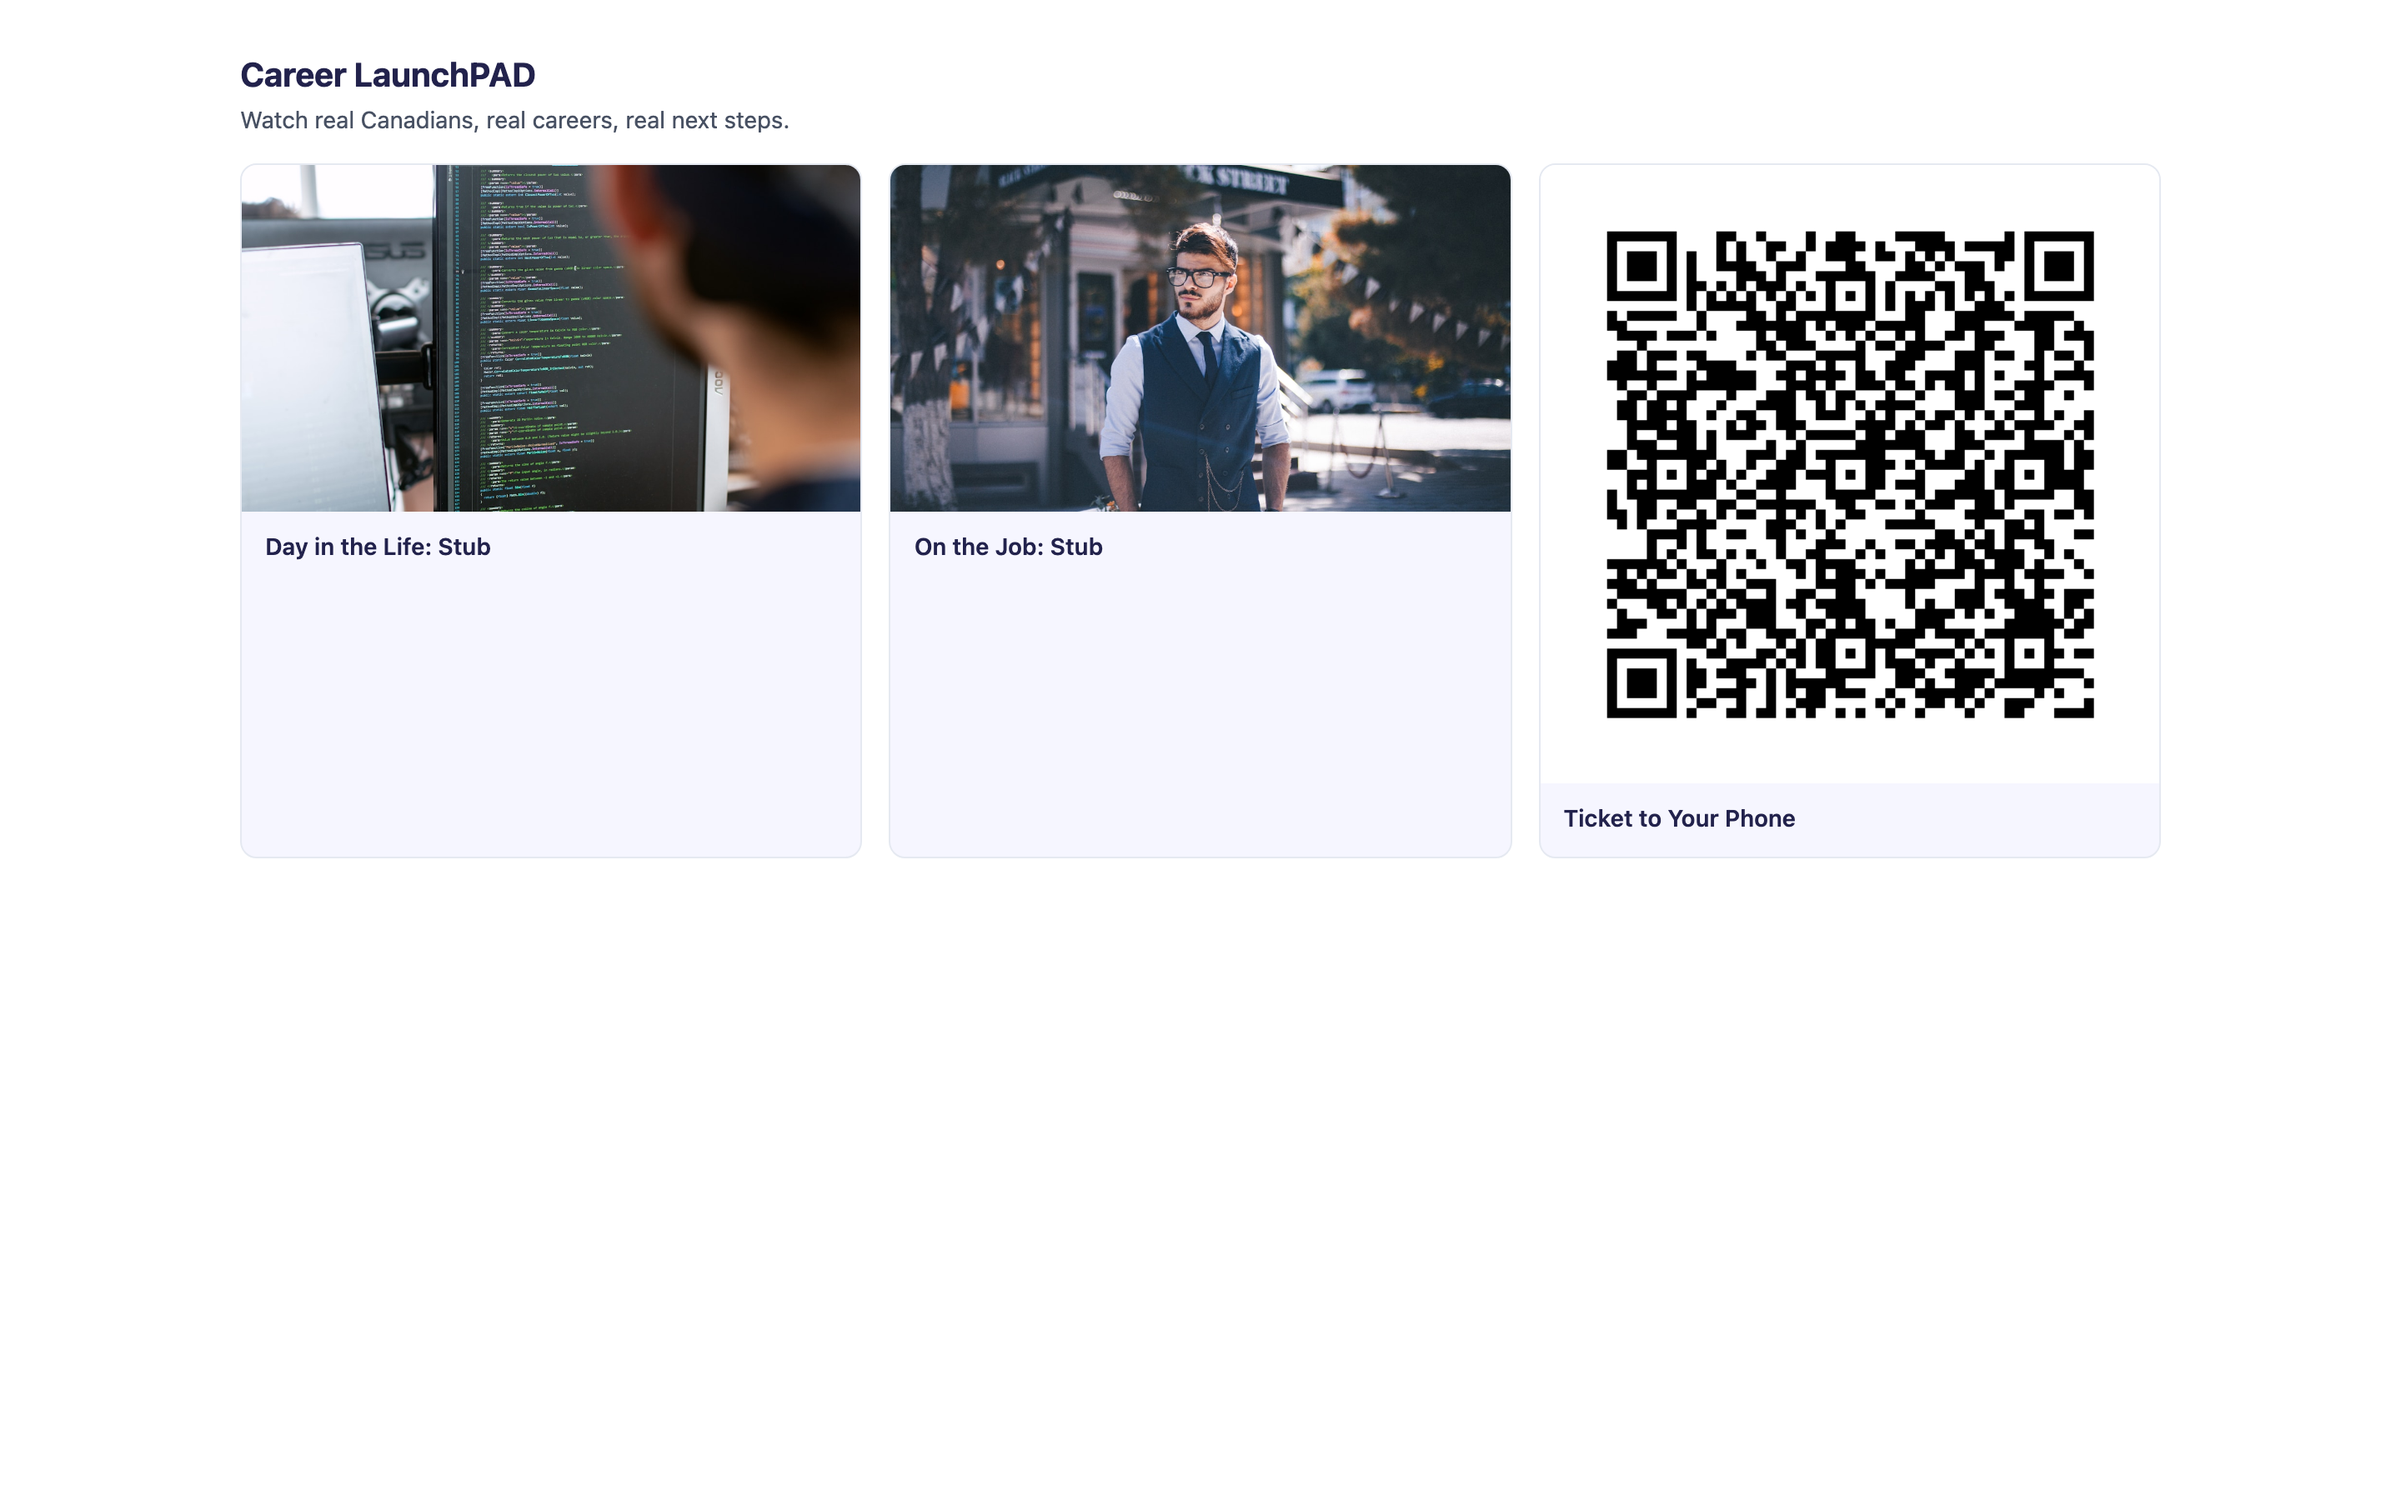
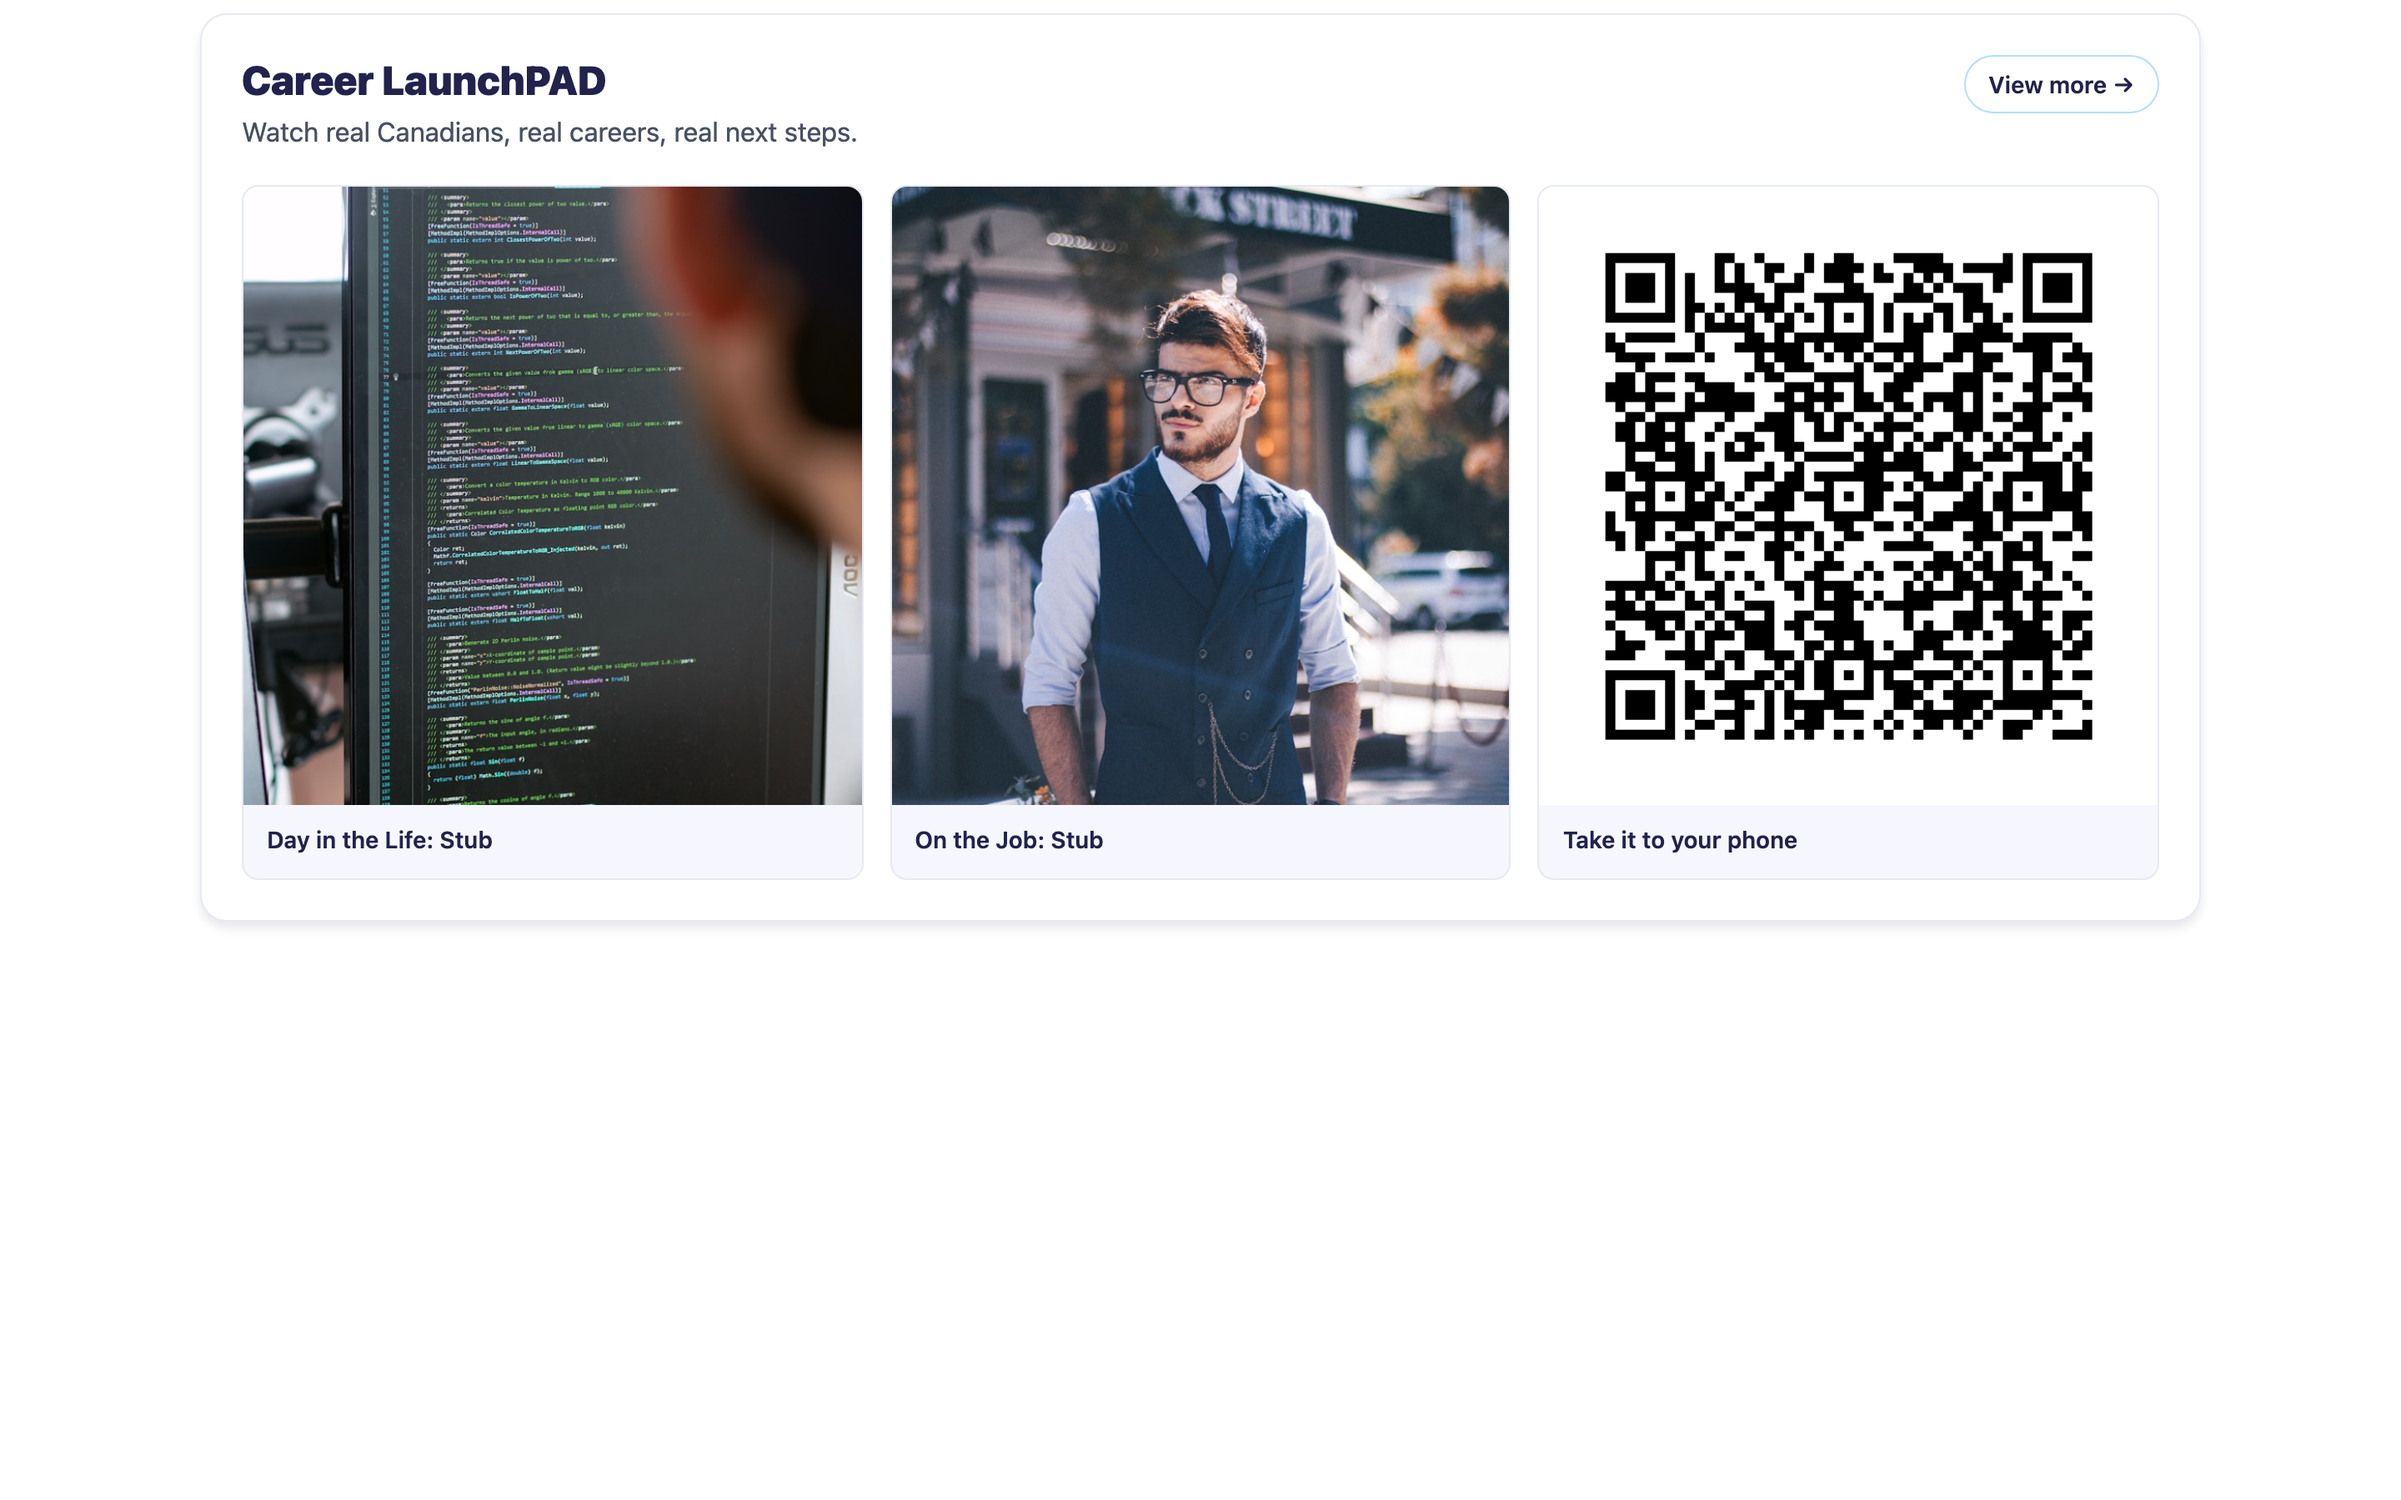
feat: refine widget visuals — container shadow, header type scale, square cards, View more CTA, QR label

Changed region(s): [[0.0938, 0.0311, 0.875, 0.5911], [0.8125, 0.0311, 0.875, 0.0622]]

diff --git a/docs/handoffs/myblueprint-widget/career-launchpad-widget.html b/docs/handoffs/myblueprint-widget/career-launchpad-widget.html
@@ -76,7 +76,9 @@
     .cl-widget {
       position: relative;                /* anchors absolutely-positioned mobile arrows */
       background: #ffffff;
-      border-radius: 12px;
+      border: 1px solid #e5e9f1;
+      border-radius: 16px;
+      box-shadow: 0 4px 6px rgba(34, 34, 76, 0.10);
       padding: 24px;
       font-family: 'Open Sans', system-ui, -apple-system, BlinkMacSystemFont, 'Segoe UI', Roboto, sans-serif;
       color: #22224c;                    /* anchor-navy */
@@ -85,18 +87,53 @@
     }
 
     /* === Header === */
+    .cl-widget__header {
+      display: flex;
+      align-items: flex-start;
+      justify-content: space-between;
+      gap: 16px;
+      margin-bottom: 20px;
+    }
+    .cl-widget__header-text {
+      flex: 1;
+      min-width: 0;
+    }
     .cl-widget__header h2 {
       margin: 0 0 4px 0;
-      font-size: 20px;
-      font-weight: 700;
+      font-size: 24px;
+      font-weight: 900;
+      letter-spacing: -0.005em;
       line-height: 1.3;
       color: #22224c;                    /* anchor-navy */
     }
     .cl-widget__header p {
-      margin: 0 0 16px 0;
-      font-size: 14px;
+      margin: 0;
+      font-size: 16px;
       color: #485163;                    /* slate-ink */
-      line-height: 1.4;
+      line-height: 1.45;
+    }
+
+    .cl-widget__more {
+      display: inline-flex;
+      align-items: center;
+      gap: 6px;
+      padding: 8px 14px;
+      font-size: 14px;
+      font-weight: 600;
+      color: #0092ff;
+      border: 1px solid rgba(0, 146, 255, 0.3);
+      border-radius: 999px;
+      white-space: nowrap;
+      transition: background-color 120ms ease, color 120ms ease, border-color 120ms ease;
+    }
+    .cl-widget__more:hover {
+      background: #0092ff;
+      color: #ffffff;
+      border-color: #0092ff;
+    }
+    .cl-widget__more:focus-visible {
+      outline: 2px solid #0092ff;
+      outline-offset: 2px;
     }
 
     /* === Track (desktop: 3-col grid) === */
@@ -121,7 +158,7 @@
     }
     .cl-card img {
       width: 100%;
-      aspect-ratio: 16 / 9;
+      aspect-ratio: 1 / 1;
       object-fit: cover;
       display: block;
       background: #e5e9f1;               /* slate-frame-light placeholder while loading */
@@ -165,7 +202,7 @@
     @media (max-width: 767.98px) {
       .cl-widget {
         padding: 20px 16px;
-        border-radius: 10px;
+        border-radius: 14px;
       }
 
       .cl-widget__track {
@@ -243,6 +280,17 @@
       }
     }
 
+    /* === Narrow mobile (<480px) — stack the header View-more button below the text === */
+    @media (max-width: 479.98px) {
+      .cl-widget__header {
+        flex-direction: column;
+        align-items: stretch;
+      }
+      .cl-widget__more {
+        align-self: flex-start;
+      }
+    }
+
     /* === States === */
     @media (hover: hover) {
       .cl-card:hover {
@@ -293,8 +341,14 @@
 <body>
   <section class="cl-widget" aria-labelledby="cl-widget-heading">
     <div class="cl-widget__header">
-      <h2 id="cl-widget-heading">Career LaunchPAD</h2>
-      <p>Watch real Canadians, real careers, real next steps.</p>
+      <div class="cl-widget__header-text">
+        <h2 id="cl-widget-heading">Career LaunchPAD</h2>
+        <p>Watch real Canadians, real careers, real next steps.</p>
+      </div>
+      <a class="cl-widget__more" href="https://career-launchpad-woad.vercel.app/?utm_source=myblueprint&amp;utm_medium=widget&amp;utm_campaign=career-launchpad-v1&amp;utm_content=view-more" target="_blank" rel="noopener noreferrer">
+        View more
+        <span aria-hidden="true">→</span>
+      </a>
     </div>
 
     <!-- html-validate-disable no-redundant-role -- role="list" is intentional: Safari removes list semantics when list-style:none is set via CSS -->
@@ -316,7 +370,7 @@
         <a href="https://career-launchpad-woad.vercel.app/?utm_source=myblueprint&amp;utm_medium=widget&amp;utm_campaign=career-launchpad-v1&amp;utm_content=qr-handoff" target="_blank" rel="noopener noreferrer">
[1 lines of base64/hex data omitted]
                alt="QR code linking to Career LaunchPAD. URL: https://career-launchpad-woad.vercel.app/?utm_source=myblueprint&amp;utm_medium=widget&amp;utm_campaign=career-launchpad-v1&amp;utm_content=qr-handoff — scan or open on your phone to continue.">
-          <span class="cl-card__label">Ticket to Your Phone</span>
+          <span class="cl-card__label">Take it to your phone</span>
         </a>
       </li>
     </ul>

diff --git a/docs/handoffs/myblueprint-widget/CONTENT.md b/docs/handoffs/myblueprint-widget/CONTENT.md
@@ -27,13 +27,14 @@
 
 ### UTM parameters
 
-`utm_source=myblueprint`, `utm_medium=widget`, `utm_campaign=career-launchpad-v1`, `utm_content=<slot>` where `<slot>` is `card-1`, `card-2`, or `qr-handoff`.
+`utm_source=myblueprint`, `utm_medium=widget`, `utm_campaign=career-launchpad-v1`, `utm_content=<slot>` where `<slot>` is `card-1`, `card-2`, `qr-handoff`, or `view-more`.
 
 ### Final hrefs (computed via URLSearchParams in Step 2a, with `&` → `&amp;` for HTML)
 
 - Card 1 final href: https://career-launchpad-woad.vercel.app/?utm_source=myblueprint&amp;utm_medium=widget&amp;utm_campaign=career-launchpad-v1&amp;utm_content=card-1
 - Card 2 final href: https://career-launchpad-woad.vercel.app/?utm_source=myblueprint&amp;utm_medium=widget&amp;utm_campaign=career-launchpad-v1&amp;utm_content=card-2
 - QR final encoded URL: https://career-launchpad-woad.vercel.app/?utm_source=myblueprint&amp;utm_medium=widget&amp;utm_campaign=career-launchpad-v1&amp;utm_content=qr-handoff
+- View-more final href: https://career-launchpad-woad.vercel.app/?utm_source=myblueprint&amp;utm_medium=widget&amp;utm_campaign=career-launchpad-v1&amp;utm_content=view-more
 - **QR plain URL for encoding** (used by the qrcode CLI in Task 8 — must stay unencoded with literal `&`, the QR encoder does not understand HTML entities): https://career-launchpad-woad.vercel.app/?utm_source=myblueprint&utm_medium=widget&utm_campaign=career-launchpad-v1&utm_content=qr-handoff
 
 Both forms are kept. The HTML uses `&amp;` form; the QR PNG encodes the literal `&` form.
@@ -52,5 +53,5 @@ Both forms are kept. The HTML uses `&amp;` form; the QR PNG encodes the literal 
 - Card 1 alt text title (the value Task 3 substitutes into `alt="Watch: <title>"`): Stub Career LaunchPAD video — card 1
 - Card 2 label: On the Job: Stub
 - Card 2 alt text title (the value Task 3 substitutes into `alt="Watch: <title>"`): Stub Career LaunchPAD video — card 2
-- Card 3 label: Ticket to Your Phone
+- Card 3 label: Take it to your phone
 - Card 3 alt text (HTML form, with &amp;): QR code linking to Career LaunchPAD. URL: https://career-launchpad-woad.vercel.app/?utm_source=myblueprint&amp;utm_medium=widget&amp;utm_campaign=career-launchpad-v1&amp;utm_content=qr-handoff — scan or open on your phone to continue.

diff --git a/docs/handoffs/myblueprint-widget/README.md b/docs/handoffs/myblueprint-widget/README.md
@@ -40,7 +40,7 @@ On the myBlueprint student dashboard:
    CDN URLs. The actual image files for swapping are committed in this directory
    under `assets/`.
 
-## The 3 URLs
+## The 4 URLs
 
 All three carry UTM parameters for GA4 attribution. The QR code encodes the
 **UTM-tagged** URL — phone-handoff sessions attribute correctly.
@@ -50,6 +50,7 @@ All three carry UTM parameters for GA4 attribution. The QR code encodes the
 | 1 | Specific launchpad video with `?utm_source=myblueprint&utm_medium=widget&utm_campaign=career-launchpad-v1&utm_content=card-1` |
 | 2 | Specific launchpad video with `utm_content=card-2` |
 | 3 (QR) | `https://career-launchpad-woad.vercel.app/` with `utm_content=qr-handoff` |
+| View more | `https://career-launchpad-woad.vercel.app/` with `utm_content=view-more` — secondary CTA in the header for students not drawn to the two seeded videos |
 
 ## Card 3 swappability
 
